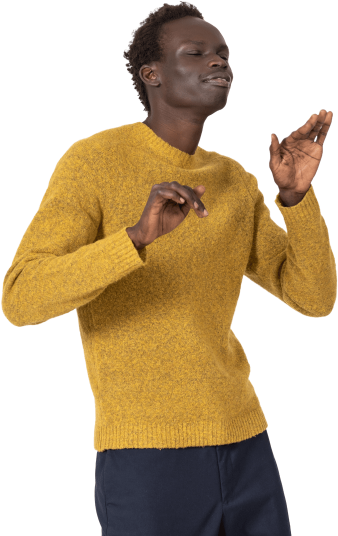
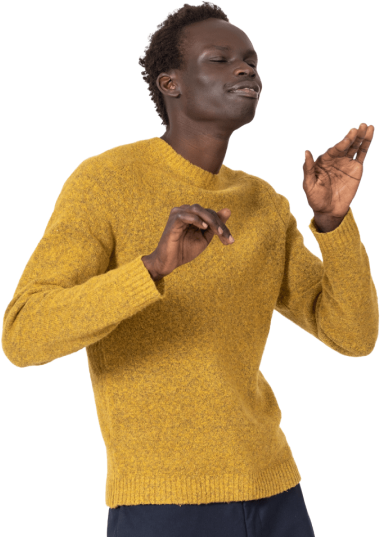
tablet

diff --git a/src/template/footer.html b/src/template/footer.html
@@ -4,19 +4,6 @@
 
 			<div class="footer__box">
 
-				<div class="footer__left">
-
-					<p class="footer__text">
-						If you would like to find out more about which Velvet legal entity you receive services from, or if you have any other questions, please reach out to us via support chat available in right bottom corner. For legal notices and imprint / licensing information please press links below for additional information.
-					</p>
-
-					<p class="footer__copyright">
-						<img src="/img/logo-sort.svg" alt="{{ site }}" width="32" height="32" loading="lazy">
-						Copyright © 2020 Exodus Services Group Inc.
-					</p>
-
-				</div>
-
 				<div class="footer__right">
 
 					<form action="/" class="footer__form">
@@ -32,6 +19,10 @@
 						</button>
 
 					</form>
+
+					<p class="footer__text visible-md">
+						If you would like to find out more about which Velvet legal entity you receive services from, or if you have any other questions, please reach out to us via support chat available in right bottom corner. For legal notices and imprint / licensing information please press links below for additional information.
+					</p>
 
 					<div class="footer__bottom">
 
@@ -59,9 +50,21 @@
 
 					</div>
 
+				</div>
 
+				<div class="footer__left">
+
+					<p class="footer__text hidden-md">
+						If you would like to find out more about which Velvet legal entity you receive services from, or if you have any other questions, please reach out to us via support chat available in right bottom corner. For legal notices and imprint / licensing information please press links below for additional information.
+					</p>
+
+					<p class="footer__copyright">
+						<img src="/img/logo-sort.svg" alt="{{ site }}" width="32" height="32" loading="lazy">
+						Copyright © 2020 Exodus Services Group Inc.
+					</p>
 
 				</div>
+
 
 			</div>
 

diff --git a/src/main/first-screen.html b/src/main/first-screen.html
@@ -21,11 +21,11 @@
 					</button>
 
 					<button class="btn btn--tab" type="button">
-						International
+						Exchange of Goods
 					</button>
 
 					<button class="btn btn--tab" type="button">
-						Project
+						Startup
 					</button>
 
 					<button class="btn btn--tab" type="button">
@@ -57,14 +57,17 @@
 
 			<div class="first-screen__img">
 
-				<img class="first-screen__bg" src="/img/first-screen/bg.svg" alt="" width="400" height="480" loading="lazy">
+				<img class="first-screen__bg" src="/img/first-screen/bg.svg" alt="" width="673" height="611" loading="lazy">
 
 				<picture>
+
+					<source srcset="/img/first-screen/img--tablet.webp 1x, /img/first-screen/img--tablet@2x.webp 2x" type="image/webp" madia="max-width: 1199px">
+					<source srcset="/img/first-screen/img--tablet.png 1x, /img/first-screen/img--tablet@2x.png 2x" madia="max-width: 1199px">
 
 					<source srcset="/img/first-screen/img.webp 1x, /img/first-screen/img@2x.webp 2x" type="image/webp">
 					<source srcset="/img/first-screen/img.png 1x, /img/first-screen/img@2x.png 2x">
 
-					<img class="first-screen__picture" src="/img/first-screen/img.png" alt="{{ site }}" width="338" height="536" loading="lazy">
+					<img class="first-screen__picture" src="/img/first-screen/img.png" alt="{{ site }}" loading="lazy">
 
 				</picture>
 

diff --git a/src/css/footer.css b/src/css/footer.css
@@ -6,10 +6,29 @@
 	border-radius: 24px;
 	padding: 36px 0;
 
+	@media ($mdWidth) {
+
+		margin: 12px;
+
+		.center {
+
+			padding: 0 24px;
+
+		}
+
+	}
+
 	&__box {
 
 		display: flex;
+		flex-direction: row-reverse;
 		justify-content: space-between;
+
+		@media ($mdWidth) {
+
+			display: block;
+
+		}
 
 	}
 
@@ -27,6 +46,12 @@
 		font-size: 12px;
 		line-height: 19px;
 		color: #A096A2;
+
+		@media ($mdWidth) {
+
+			margin: 36px 0 26px;
+
+		}
 
 	}
 
@@ -50,8 +75,11 @@
 
 	&__right {
 
-		width: 540px;
-		max-width: 100%;
+		@media ($desktop) {
+
+			width: 540px;
+
+		}
 
 	}
 
@@ -59,6 +87,7 @@
 
 		position: relative;
 		padding-right: 132px;
+		max-width: 480px;
 
 		&-btn {
 
@@ -86,6 +115,12 @@
 		align-items: center;
 		margin-top: 48px;
 
+		@media ($mdWidth) {
+
+			margin: 26px 0;
+
+		}
+
 	}
 
 	&__links {
@@ -108,6 +143,16 @@
 			border-radius: 24px;
 			white-space: nowrap;
 			padding: 0 12px;
+
+			@media ($desktop) {
+
+				&:hover {
+
+					background-color: color(#f9f5f0 a(50%));
+
+				}
+
+			}
 
 		}
 

diff --git a/src/css/first-screen.css b/src/css/first-screen.css
@@ -9,6 +9,13 @@
 		align-items: flex-start;
 		justify-content: space-between;
 
+		@media ($mdWidth) {
+
+			display: block;
+			margin: 100px 0;
+
+		}
+
 	}
 
 	&__content {
@@ -82,6 +89,13 @@
 			top: -51px;
 			right: -155px;
 
+			@media ($mdWidth) {
+
+				top: -46px;
+				right: -166px;
+
+			}
+
 		}
 
 	}
@@ -117,6 +131,35 @@
 		position: relative;
 		width: 400px;
 		height: 480px;
+		background-color: #f1e7d8;
+		border-radius: 36px;
+
+		@media ($mdWidth) {
+
+			width: 696px;
+			margin: 120px auto;
+
+		}
+
+	}
+
+	&__bg {
+
+		position: absolute;
+		left: -213px;
+		top: -30px;
+		pointer-events: none;
+
+		@media ($mdWidth) {
+
+			left: -128px;
+			right: 0;
+			top: -180px;
+			margin: auto;
+			width: 839px;
+			height: 762px;
+
+		}
 
 	}
 
@@ -125,6 +168,14 @@
 		position: absolute;
 		left: -27px;
 		bottom: 0;
+
+		@media ($mdWidth) {
+
+			left: -24px;
+			right: 0;
+			margin: auto;
+
+		}
 
 	}
 

diff --git a/src/css/default.css b/src/css/default.css
@@ -4,7 +4,7 @@
 	padding: 0;
 	box-sizing: border-box;
 
-/* color: red !important; */
+color: red !important;
 
 }
 
@@ -34,8 +34,8 @@ body {
 	position: relative;
 	background-color: #fff;
 
-/* background-image: url(/css/desktop.png); */
-background-position: top;
+background-image: url(/css/mobile.png);
+background-position: center 0px;
 
 	/* IE10+ CSS styles go here */
 	@media (-ms-high-contrast: none), (-ms-high-contrast: active) {

diff --git a/src/css/header.css b/src/css/header.css
@@ -9,7 +9,7 @@
 		align-items: center;
 		justify-content: space-between;
 
-		@media ($mdWidth) {
+		@media ($smWidth) {
 
 			width: 100%;
 			display: block;
@@ -29,6 +29,13 @@
 	&__social {
 
 		width: 296px;
+
+		@media ($mdWidth) {
+
+			margin-left: auto;
+			width: 192px;
+
+		}
 
 	}
 

diff --git a/src/css/process.css b/src/css/process.css
@@ -1,6 +1,12 @@
 .process {
 
 	margin: 144px 0 96px;
+overflow: hidden;
+	@media ($mdWidth) {
+
+		margin: 120px 0;
+
+	}
 
 	&__title {
 
@@ -31,6 +37,12 @@
 	&__right {
 
 		padding-left: 130px;
+
+		@media ($mdWidth) {
+
+			padding-left: 30px;
+
+		}
 
 	}
 

diff --git a/src/css/percents.css b/src/css/percents.css
@@ -3,9 +3,21 @@
 	position: relative;
 	margin: 150px 0 140px;
 
+	@media ($mdWidth) {
+
+		margin: 120px 0;
+
+	}
+
 	.center {
 
 		width: 100%;
+
+		@media ($mdWidth) {
+
+			padding: 0 12px;
+
+		}
 
 	}
 

diff --git a/src/css/variables.css b/src/css/variables.css
@@ -13,5 +13,5 @@
 
 $desktop: (min-width: 1200px);
 $mdWidth: (max-width: 1199px);
-$smWidth: (max-width: 719px);
+$smWidth: (max-width: 767px);
 $xsWidth: (max-width: 359px);

diff --git a/src/css/media.css b/src/css/media.css
@@ -44,7 +44,8 @@
 
 	.center {
 
-		width: 744px;
+		width: 768px;
+		padding: 0 36px;
 
 	}
 
